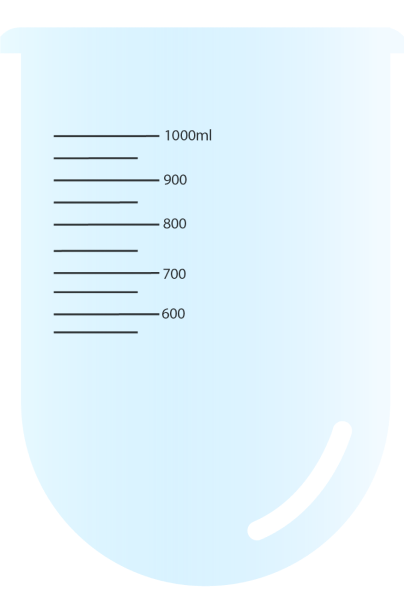
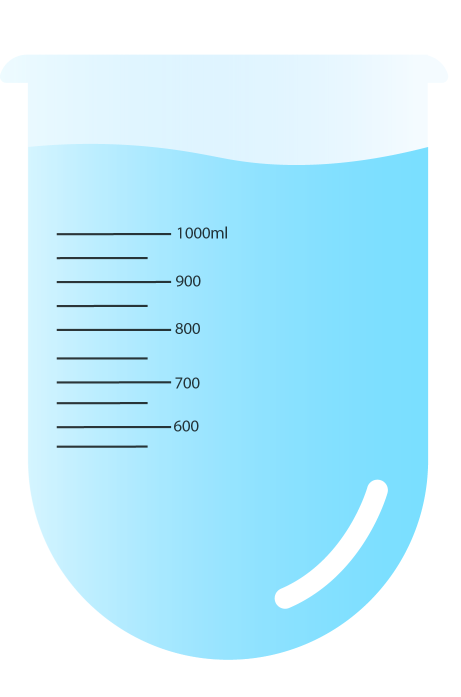
scene3 completed

diff --git a/src/components/VesselFull.js b/src/components/VesselFull.js
@@ -1,0 +1,62 @@
+import { useContext, useState } from 'react';
+import { useDrop } from 'react-dnd';
+import { ItemTypes } from '../constant';
+import { Scene3Context } from './Scene3';
+
+const VesselFull = () => {
+  const {
+    ctmLeft,
+    ctmTop,
+    setCtmLeft,
+    setCtmTop,
+    setCtmTrans,
+    setSceneCompleted,
+  } = useContext(Scene3Context);
+
+  const [dropTargetStyles, setDropTargetStyles] = useState({
+    opacity: 1,
+    transition: 'opacity 1s linear',
+  });
+
+  const [, drop] = useDrop(
+    () => ({
+      accept: ItemTypes.CTM,
+      drop: (_, monitor) => {
+        const delta = monitor.getDifferenceFromInitialOffset();
+        const left = Math.round(ctmLeft + delta.x);
+        const top = Math.round(ctmTop + delta.y);
+        setDropTargetStyles({ opacity: 0 });
+        handleCtmTrans(left, top, '');
+        setTimeout(() => {
+          handleCtmTrans(left, top + 260, 'transform 1s ease-in');
+          setTimeout(() => {
+            handleCtmTrans(left, top + 210, 'transform 1s ease-in');
+            setTimeout(() => {
+              setSceneCompleted(true);
+            }, 1300);
+          }, 1000);
+        }, 300);
+      },
+    }),
+    []
+  );
+
+  const handleCtmTrans = (left, top, transition) => {
+    setCtmTrans(transition);
+    setCtmLeft(left);
+    setCtmTop(top);
+  };
+
+  return (
+    <div className="vessel-full-container">
+      <div
+        ref={drop}
+        className="ctm-drop-target"
+        style={dropTargetStyles}
+      ></div>
+      <div className="vessel-full"></div>
+      <div className="termometer-full"></div>
+    </div>
+  );
+};
+export default VesselFull;

diff --git a/src/components/Scene3.js b/src/components/Scene3.js
@@ -1,22 +1,52 @@
 import { createContext, useState } from 'react';
+import CustomCtmLayer from './CustomCtmLayer';
+import DraggableCtm from './DraggableCtm';
+import VesselFull from './VesselFull';
 
 export const Scene3Context = createContext({
   sceneCompleted: false,
   setSceneCompleted: (_) => {},
+  ctmTop: 0,
+  setCtmTop: (_) => {},
+  ctmLeft: 0,
+  setCtmLeft: (_) => {},
+  ctmTrans: 0,
+  setCtmTrans: (_) => {},
 });
 
 const Scene3 = () => {
   const [sceneCompleted, setSceneCompleted] = useState(false);
+  const [ctmTop, setCtmTop] = useState(0);
+  const [ctmLeft, setCtmLeft] = useState(0);
+  const [ctmTrans, setCtmTrans] = useState('');
 
   const sceneStyles = {
     opacity: sceneCompleted ? '0' : '1',
     transition: 'opacity 1s linear',
-    height: '100vh',
+    height: '100%',
+    width: '100%',
+    margin: 0,
+    padding: 0,
   };
 
   return (
-    <Scene3Context.Provider value={{ sceneCompleted, setSceneCompleted }}>
-      <div style={sceneStyles}></div>
+    <Scene3Context.Provider
+      value={{
+        sceneCompleted,
+        setSceneCompleted,
+        ctmTop,
+        setCtmTop,
+        ctmLeft,
+        setCtmLeft,
+        ctmTrans,
+        setCtmTrans,
+      }}
+    >
+      <div style={sceneStyles}>
+        <DraggableCtm />
+        <CustomCtmLayer />
+        <VesselFull />
+      </div>
     </Scene3Context.Provider>
   );
 };

diff --git a/src/components/CustomCtmLayer.js b/src/components/CustomCtmLayer.js
@@ -1,0 +1,61 @@
+import { useDragLayer } from 'react-dnd';
+import { ItemTypes } from '../constant';
+import Ctm from './Ctm';
+
+const layerStyles = {
+  position: 'fixed',
+  pointerEvents: 'none',
+  zIndex: 100,
+  left: 0,
+  top: 0,
+  width: '100%',
+  height: '100%',
+};
+
+function getItemStyles(initialOffset, currentOffset) {
+  if (!initialOffset || !currentOffset) {
+    return {
+      display: 'none',
+    };
+  }
+  let { x, y } = currentOffset;
+  const transform = `translate(${x}px, ${y}px)`;
+  return {
+    transform,
+    WebkitTransform: transform,
+  };
+}
+
+const CustomCtmLayer = () => {
+  const { itemType, isDragging, initialOffset, currentOffset } = useDragLayer(
+    (monitor) => ({
+      item: monitor.getItem(),
+      itemType: monitor.getItemType(),
+      initialOffset: monitor.getInitialSourceClientOffset(),
+      currentOffset: monitor.getSourceClientOffset(),
+      isDragging: monitor.isDragging(),
+    })
+  );
+
+  function renderItem() {
+    switch (itemType) {
+      case ItemTypes.CTM:
+        return <Ctm />;
+      default:
+        return null;
+    }
+  }
+
+  if (!isDragging) {
+    return null;
+  }
+
+  return (
+    <div style={layerStyles}>
+      <div style={getItemStyles(initialOffset, currentOffset)}>
+        {renderItem()}
+      </div>
+    </div>
+  );
+};
+export default CustomCtmLayer;

diff --git a/src/App.css b/src/App.css
@@ -161,3 +161,61 @@
     opacity: 0;
   }
 }
+
+.vessel-full-container {
+  width: 200px;
+  height: 450px;
+  position: absolute;
+  top: 50%;
+  left: 50%;
+  transform: translate(-50%, -50%);
+}
+
+.vessel-full {
+  width: 100%;
+  height: 100%;
+  background-image: url('../public/assets/img/desolusi.png');
+  background-size: contain;
+  background-repeat: no-repeat;
+  background-position: center bottom;
+  bottom: 0;
+  left: 0;
+  position: absolute;
+  z-index: 2;
+}
+
+.termometer-full {
+  width: 35px;
+  height: 200px;
+  background-image: url('../public/assets/img/termometer-2.png');
+  background-size: contain;
+  background-repeat: no-repeat;
+  background-position: center top;
+  position: absolute;
+  top: 80px;
+  left: 30px;
+}
+
+.ctm {
+  width: 50px;
+  height: 50px;
+  background-image: url('../public/assets/img/CTM.png');
+  background-size: contain;
+  background-repeat: no-repeat;
+  background-position: center;
+  top: 50px;
+  left: 100px;
+  position: absolute;
+}
+
+.ctm-drop-target {
+  width: 50px;
+  height: 50px;
+  border-radius: 50%;
+  position: absolute;
+  top: 20%;
+  left: 50%;
+  transform: translateX(-50%);
+  z-index: 3;
+  border: 3px dashed #FFE600;
+}

diff --git a/src/components/DraggableCtm.js b/src/components/DraggableCtm.js
@@ -1,0 +1,43 @@
+import { useContext, useEffect } from 'react';
+import { useDrag } from 'react-dnd';
+import { ItemTypes } from '../constant';
+import '../App.css';
+import { getEmptyImage } from 'react-dnd-html5-backend';
+import Ctm from './Ctm';
+import { Scene3Context } from './Scene3';
+
+function DraggableCtm() {
+  const { ctmTop, ctmLeft, ctmTrans } = useContext(Scene3Context);
+  const [{ isDragging }, drag, preview] = useDrag(
+    () => ({
+      type: ItemTypes.CTM,
+      collect: (monitor) => ({
+        isDragging: monitor.isDragging(),
+      }),
+    }),
+    []
+  );
+
+  useEffect(() => {
+    preview(getEmptyImage(), { captureDraggingState: true });
+  }, [preview]);
+
+  const getStyles = (isDragging) => {
+    const transform = `translate3d(${ctmLeft}px, ${ctmTop}px, 0)`;
+    return {
+      position: 'absolute',
+      opacity: isDragging ? 0 : 1,
+      height: isDragging ? 0 : '',
+      transition: ctmTrans,
+      zIndex: 0,
+      transform,
+    };
+  };
+
+  return (
+    <div ref={drag} style={getStyles(isDragging)}>
+      <Ctm />
+    </div>
+  );
+}
+export default DraggableCtm;

diff --git a/src/components/GlassBox.js b/src/components/GlassBox.js
@@ -2,12 +2,15 @@ import '../App.css';
 import InputSlider from 'react-input-slider';
 import { useContext, useRef, useState } from 'react';
 import { Scene2Context } from './Scene2';
+import { useAppProvider } from './AppProvider';
+import { SceneTypes } from '../constant';
 
 const GlassBox = () => {
   const [temperature, setTemperature] = useState(30);
   const temperatureRef = useRef(30);
   const [isFinished, setIsFinished] = useState(false);
   const { setSceneCompleted } = useContext(Scene2Context);
+  const { setScene } = useAppProvider();
 
   const handleTemperatureChange = (temp) => {
     setTemperature(temp);
@@ -21,6 +24,10 @@ const GlassBox = () => {
         setTimeout(() => {
           setSceneCompleted(true);
         }, 2000);
+
+        setTimeout(() => {
+          setScene(SceneTypes.SCENE_3);
+        }, 3000);
       }
     }, 500);
   };

diff --git a/src/components/AppProvider.js b/src/components/AppProvider.js
@@ -2,6 +2,7 @@ import { createContext, useContext, useState } from 'react';
 import { SceneTypes } from '../constant';
 import Scene1 from './Scene1';
 import Scene2 from './Scene2';
+import Scene3 from './Scene3';
 
 const AppContext = createContext({
   scene: null,
@@ -19,9 +20,11 @@ const AppProvider = () => {
     console.log('curren_scene', scene);
     switch (scene) {
       case SceneTypes.SCENE_1:
-        return <Scene1></Scene1>;
+        return <Scene1 />;
       case SceneTypes.SCENE_2:
-        return <Scene2></Scene2>;
+        return <Scene2 />;
+      case SceneTypes.SCENE_3:
+        return <Scene3 />;
       default:
         return null;
     }

diff --git a/src/constant.js b/src/constant.js
@@ -1,8 +1,10 @@
 export const ItemTypes = {
   VESSEL: 'vessel',
+  CTM: 'ctm',
 };
 
 export const SceneTypes = {
   SCENE_1: 0,
   SCENE_2: 1,
+  SCENE_3: 2,
 };

diff --git a/src/components/Ctm.js b/src/components/Ctm.js
@@ -1,0 +1,6 @@
+import '../App.css';
+
+const Ctm = () => {
+  return <div className="ctm"></div>;
+};
+export default Ctm;
